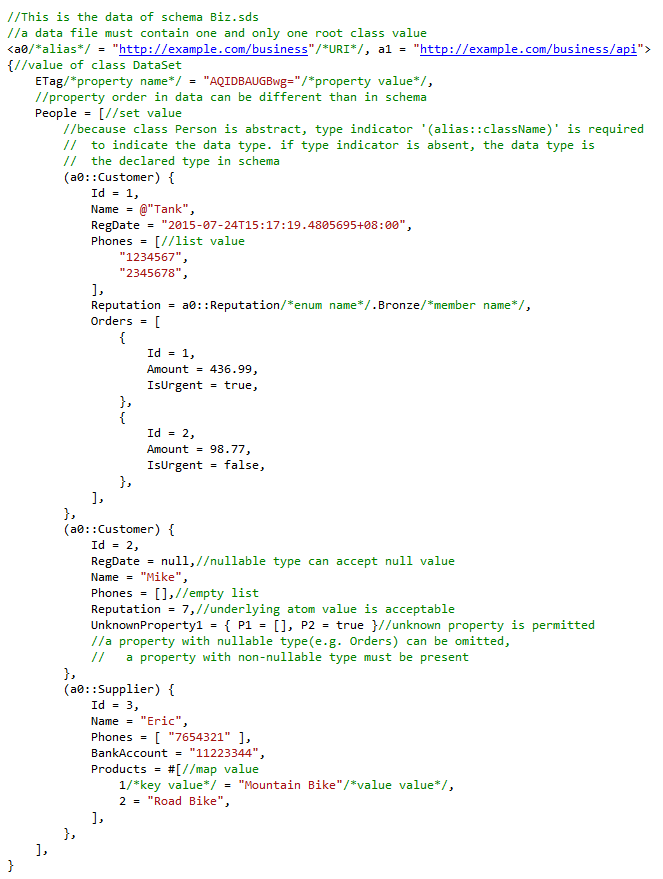
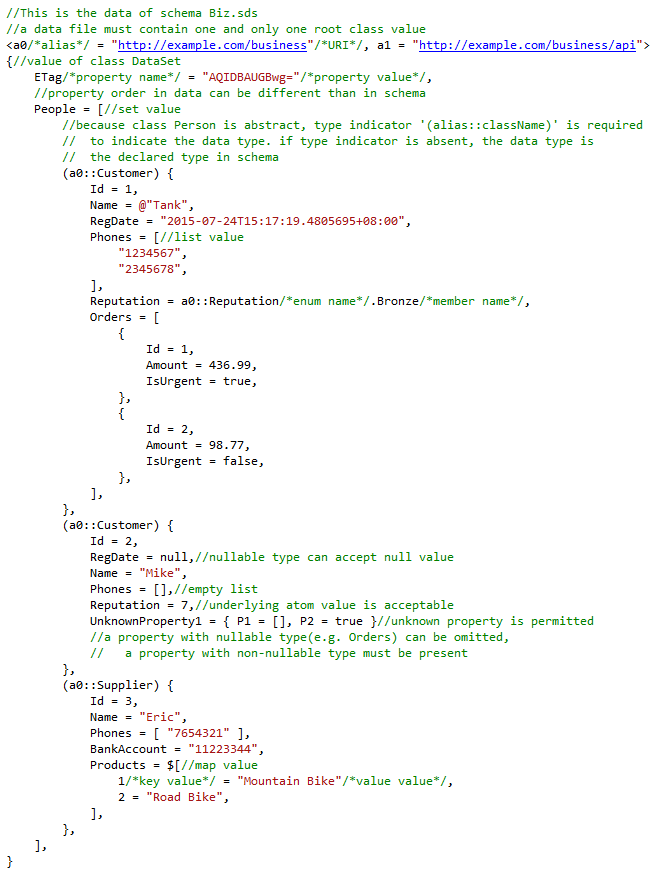
update

diff --git a/Src/SData/Serializer.cs b/Src/SData/Serializer.cs
@@ -140,7 +140,7 @@ namespace SData
                             var mapEnumerator = enumerator as IDictionaryEnumerator;
                             if (mapEnumerator != null)
                             {
-                                context.Append("#[");
+                                context.Append("$[");
                                 context.AppendLine();
                                 context.PushIndent();
                                 while (mapEnumerator.MoveNext())
@@ -228,7 +228,7 @@ namespace SData
                     var collMd = (CollectionTypeMd)nonNullableTypeMd;
                     var keyMd = collMd.MapKeyType;
                     var valueMd = collMd.ItemOrValueType;
-                    context.Append("#[");
+                    context.Append("$[");
                     context.AppendLine();
                     context.PushIndent();
                     IDictionaryEnumerator mapEnumerator = collMd.GetMapEnumerator(value);

diff --git a/Src/SData/Internal/Lexer.cs b/Src/SData/Internal/Lexer.cs
@@ -485,14 +485,14 @@ namespace SData.Internal
                         {
                             return CreateTokenAndConsumeChar(ch);
                         }
-                    case '#':
+                    case '$':
                         nextch = GetNextChar();
                         if (nextch == '[')
                         {
                             MarkTokenStart();
                             ConsumeChar();
                             ConsumeChar();
-                            return CreateToken(TokenKind.HashOpenBracket, null);
+                            return CreateToken(TokenKind.DollarOpenBracket, null);
                         }
                         else
                         {

diff --git a/Src/SData/Internal/Parser.cs b/Src/SData/Internal/Parser.cs
@@ -472,7 +472,7 @@ namespace SData.Internal
                 textSpan = token.TextSpan;
                 return true;
             }
-            if (Token((int)TokenKind.HashOpenBracket, out token))
+            if (Token((int)TokenKind.DollarOpenBracket, out token))
             {
                 if (typeMd != null)
                 {

diff --git a/Src/SData/Internal/Token.cs b/Src/SData/Internal/Token.cs
@@ -14,7 +14,7 @@ namespace SData.Internal
         Real,// +-123.45Ee+-12
         //
         ColonColon,// ::
-        HashOpenBracket,// #[
+        DollarOpenBracket,// $[
     }
     public struct Token : IEquatable<Token>
     {

diff --git a/README.md b/README.md
@@ -568,11 +568,10 @@ namespace Example.Business
             return true;
         }
         //the serializer will call base method(Person.OnLoaded()) first
-        private bool OnLoaded(LoadingContext context, TextSpan textSpan)
+        private bool OnLoaded(MyLoadingContext context, TextSpan textSpan)
         {
             Console.WriteLine("Customer.OnLoaded()");
-            var myContext = (MyLoadingContext)context;
-            if (myContext.CheckCustomerReputation && Reputation == Business.Reputation.Bad)
+            if (context.CheckCustomerReputation && Reputation == Business.Reputation.Bad)
             {
                 context.AddDiagnostic(DiagnosticSeverity.Warning,
                     (int)MyDiagnosticCode.BadReputationCustomer, "Bad reputation customer.",
@@ -761,8 +760,8 @@ decimal-value-token:
 real-value-token:
 ('+' | '-')? (decimal-digit* '.')? decimal-digit+ ('E' | 'e') ('+' | '-')? decimal-digit+
 ;
-hash-open-bracket-token:
-'#['
+dollar-open-bracket-token:
+'$['
 ;
 colon-colon-token:
 '::'
@@ -813,7 +812,7 @@ list-or-set-value:
 '[' (value (',' value)* ',')? ']'
 ;
 map-value:
-hash-open-bracket-token (key-value (',' key-value)* ','?)? ']'
+dollar-open-bracket-token (key-value (',' key-value)* ','?)? ']'
 ;
 key-value:
 value '=' value
